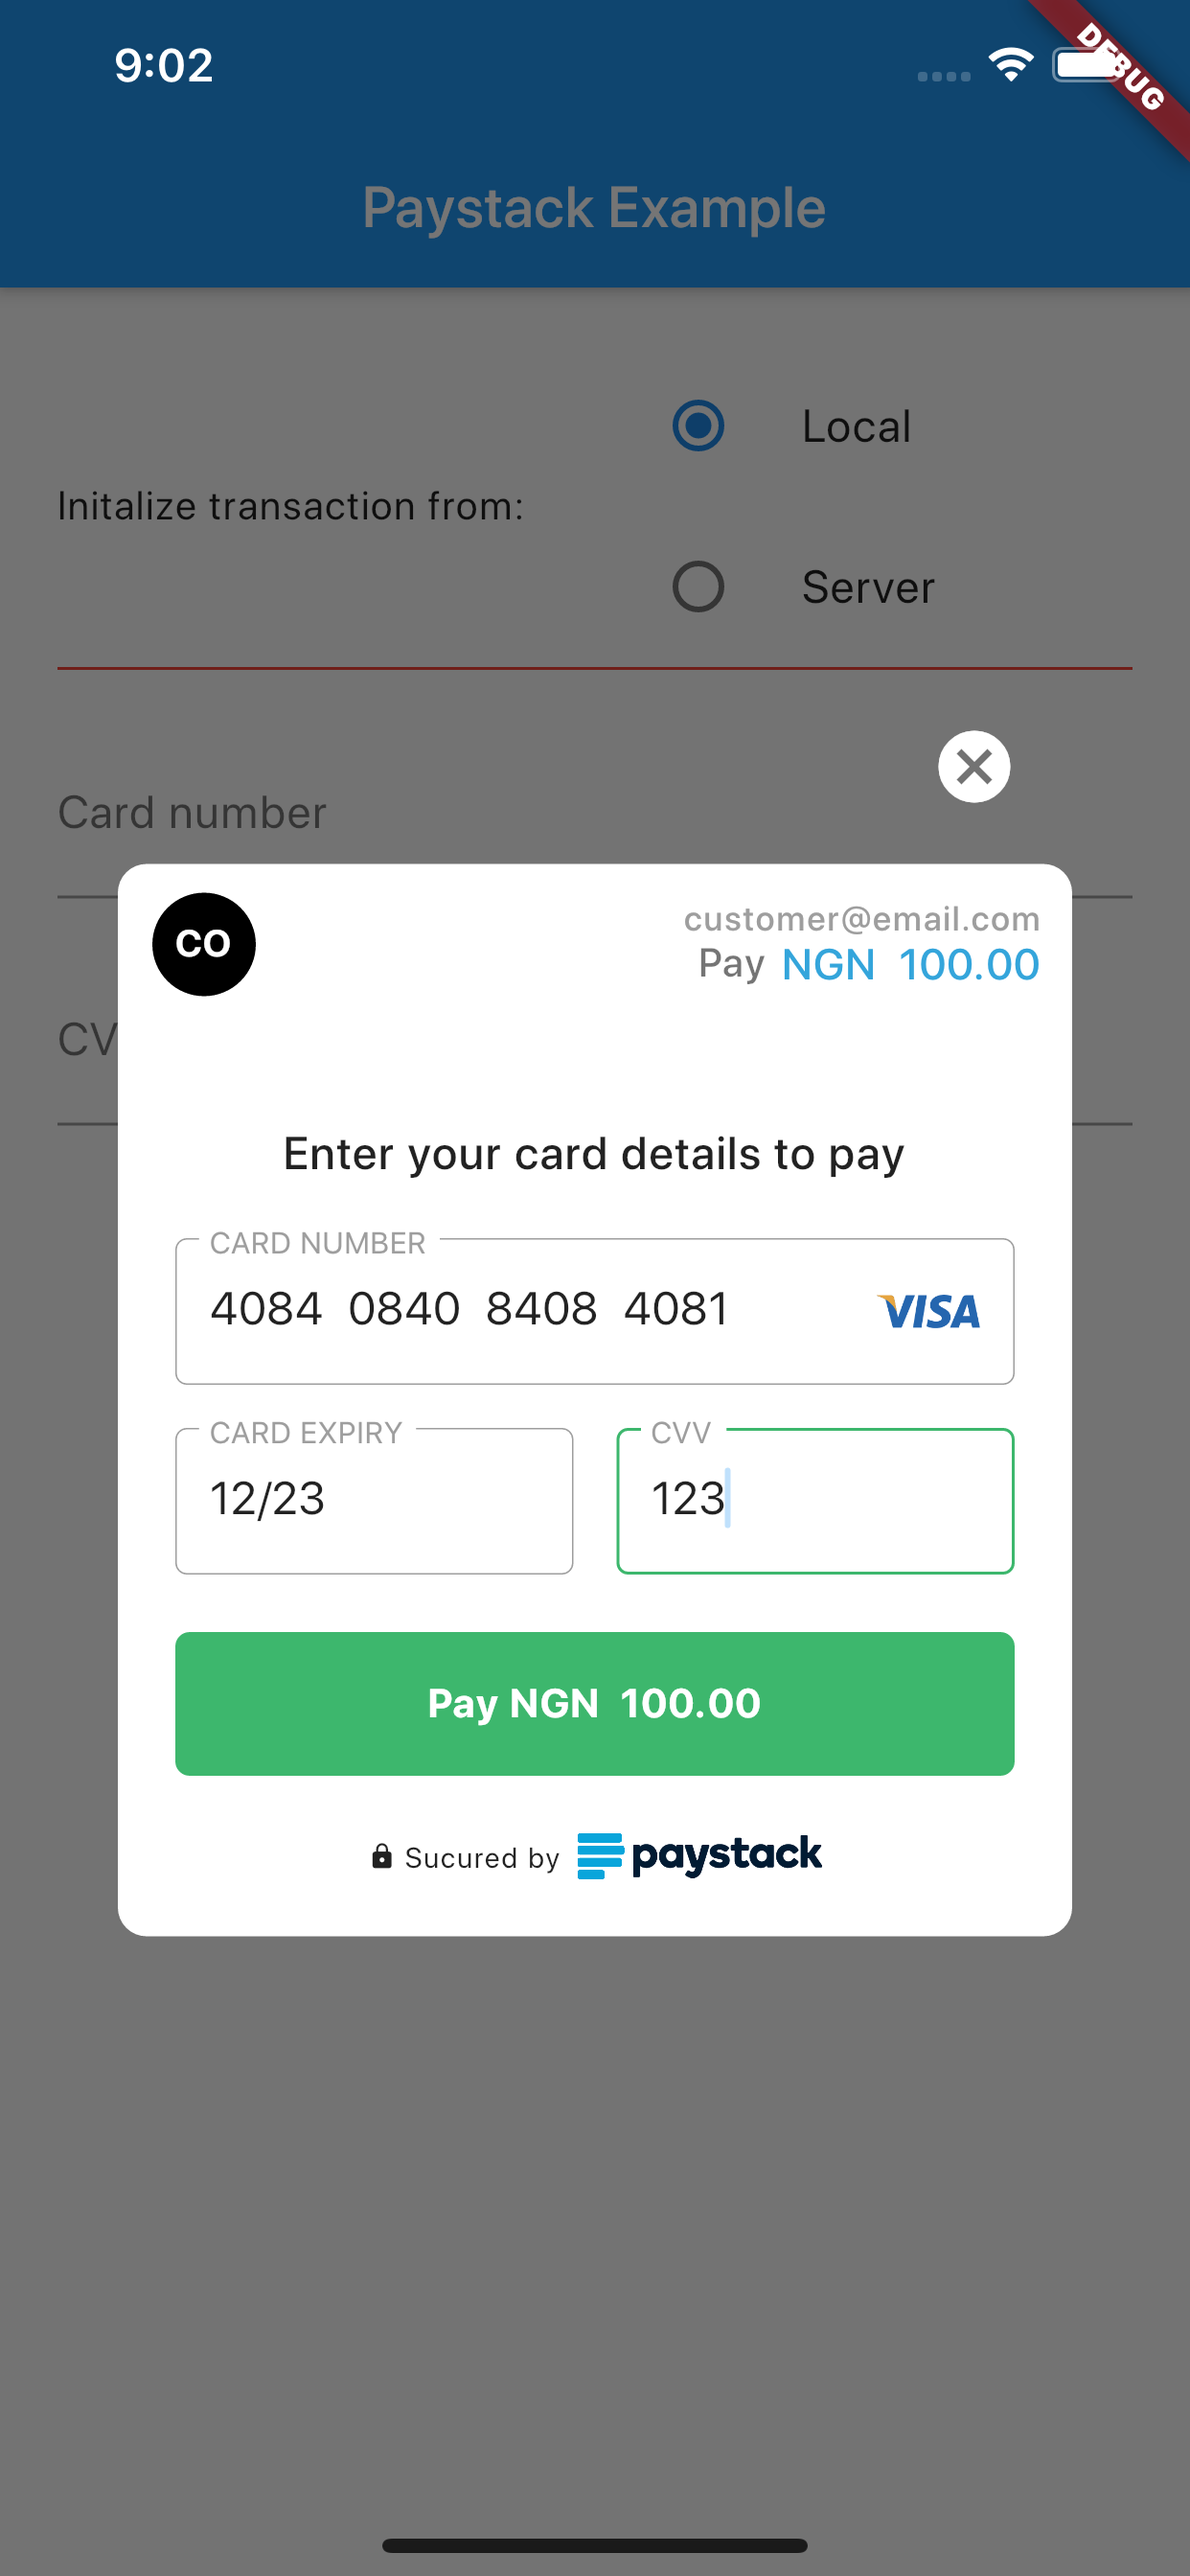
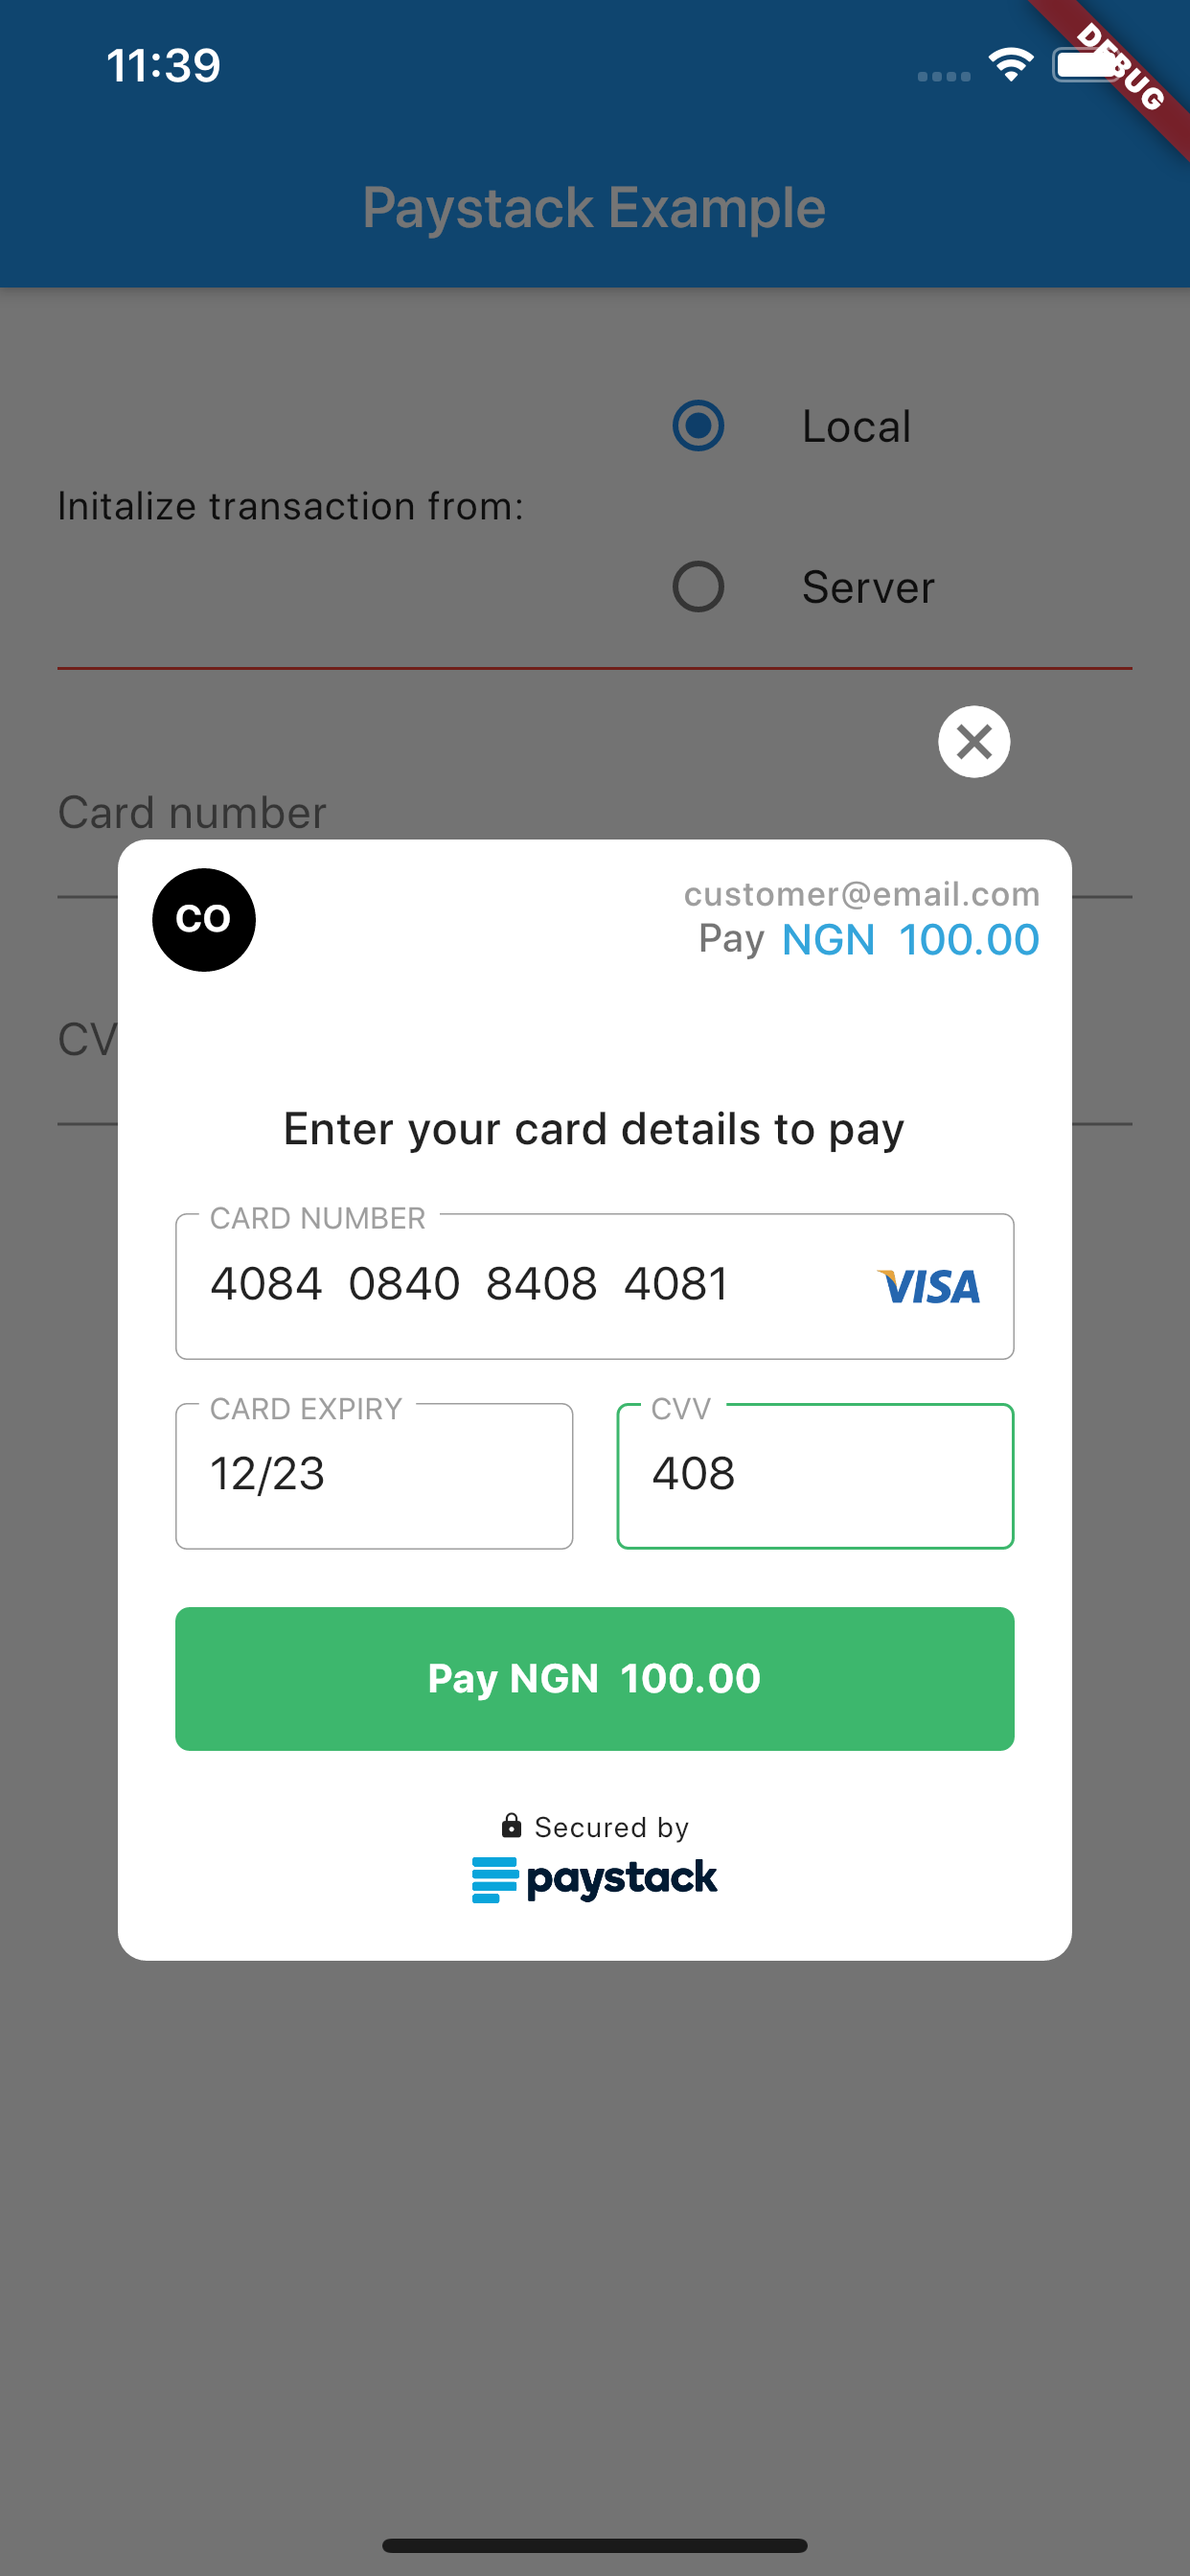
Changes for v1.0.2+1

diff --git a/CHANGELOG.md b/CHANGELOG.md
@@ -1,3 +1,7 @@
+## 1.0.2+1
+
+* Corrected typo
+
 ## 1.0.2
 
 * Made plugin theme customizable
